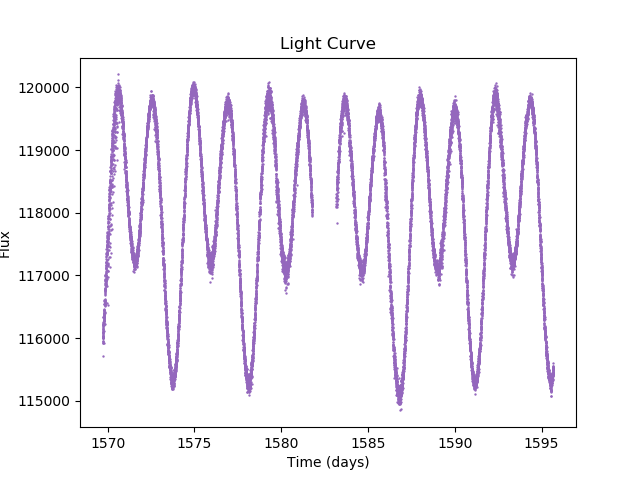
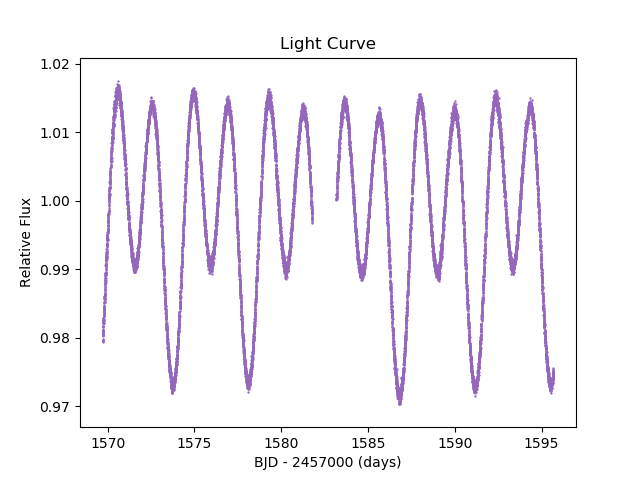
Updated flux type and normalized it, added quality check. Updated labels.

diff --git a/readFits.py b/readFits.py
@@ -4,6 +4,7 @@ import matplotlib.pyplot as plt
 import altair as alt
 import glob
 import os
+import pandas as pd
 
 numTab = 11  # We have 11 fits files to read from.
 lightCurves = [0] * numTab  # Store the light curves for all the tables.
@@ -11,15 +12,16 @@ path = "start_data"  # Hack for dealing with OS forward/back slash conflicts.
 i = 0
 
 for file in glob.glob(os.path.join(path, "*.fits")):
-    print("\nReading in...")
+    print("\nReading in " + str(file))
     fitsTable = fits.open(file, memmap=True)
-    fitsTable.info()
-    curveData = Table(fitsTable[1].data)
+    curveTable = Table(fitsTable[1].data).to_pandas()
+    curveData = curveTable[curveTable['QUALITY'] == 0]
+    curveData['PDCSAP_FLUX']=curveData['PDCSAP_FLUX']/curveData['PDCSAP_FLUX'].median()
 
     # matplotlib graphing
-    plt.scatter(curveData['TIME'], curveData['SAP_FLUX'], color='tab:purple', s=.5)
-    plt.xlabel('Time (days)')
-    plt.ylabel('Flux')
+    plt.scatter(curveData['TIME'], curveData['PDCSAP_FLUX'], color='tab:purple', s=.5)
+    plt.xlabel('BJD - 2457000 (days)')  # BJD Julian corrected for elliptical orbit.
+    plt.ylabel('Relative Flux')
     plt.title('Light Curve')
 
     i += 1
@@ -30,8 +32,8 @@ for file in glob.glob(os.path.join(path, "*.fits")):
     # Altair graphing that doesn't work yet
     # chart = alt.Chart(curve).mark_circle(size=1).encode(
     #     x='TIME',
-    #     y='SAP_FLUX',
-    #     tooltip=['TIME', 'SAP_FLUX']
+    #     y='PDCSAP_FLUX',
+    #     tooltip=['TIME', 'PDCSAP_FLUX']
     # ).interactive()
     #
     # i += 1
